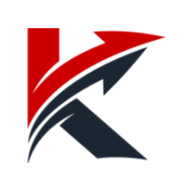
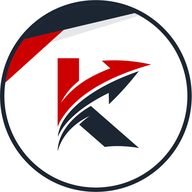
Novo ícone, botão de ajuda pelo WhatsApp e rodapé com versão
Claude-Session: https://claude.ai/code/session_01XZedQVNNjmR4nTZd9tLYRd

diff --git a/index.html b/index.html
@@ -6,8 +6,8 @@
 <meta name="theme-color" content="#000000">
 <title>Kiton Hub</title>
 <link rel="manifest" href="manifest.webmanifest">
-<link rel="icon" href="icon-192.png">
-<link rel="apple-touch-icon" href="icon-192.png">
+<link rel="icon" href="logo-redondo.png?v=2">
+<link rel="apple-touch-icon" href="icon-180.png?v=2">
 <link rel="preconnect" href="https://fonts.googleapis.com">
 <link rel="preconnect" href="https://fonts.gstatic.com" crossorigin>
 <link href="https://fonts.googleapis.com/css2?family=Barlow:wght@400;500;600&family=Barlow+Semi+Condensed:wght@600;700&display=swap" rel="stylesheet">
@@ -24,7 +24,10 @@ html,body{margin:0;background:var(--aco);color:var(--texto);font:17px/1.4 var(--
 button{font:inherit;color:inherit;cursor:pointer}
 :focus-visible{outline:3px solid var(--amarelo);outline-offset:2px}
 .topo{position:sticky;top:0;z-index:10;background:var(--preto);color:#fff;display:flex;align-items:center;gap:10px;padding:10px 16px;padding-top:max(10px,env(safe-area-inset-top))}
-.topo img{width:34px;height:34px;border-radius:8px;background:#fff}
+.topo img{width:38px;height:38px;border-radius:50%;background:#fff}
+.topo .ajuda{background:#1E2227;border-radius:10px;width:40px;height:40px;display:grid;place-items:center;color:#25D366}
+.rodape{margin:28px 0 0;text-align:center;font-size:12.5px;line-height:1.5;color:var(--cinza)}
+.rodape b{font-weight:600;color:var(--texto)}
 .topo .marca{font:700 19px/1 var(--tit);letter-spacing:.2px;flex:1}
 .topo .marca span{display:block;font:500 13px/1.3 var(--corpo);color:#B9C0C8;letter-spacing:0}
 .topo .icone-btn{background:#1E2227;border:0;border-radius:10px;width:40px;height:40px;display:grid;place-items:center}
@@ -206,15 +209,16 @@ td.n{text-align:right}
 .linha-meus .q{min-width:34px;height:34px;border-radius:9px;background:var(--preto);color:#fff;display:grid;place-items:center;font:700 16px/1 var(--tit)}
 select.campo-txt{appearance:auto}
 .login-marca{text-align:center;margin:26px 0 22px}
-.login-marca img{width:84px;height:84px;border-radius:20px;background:#fff}
+.login-marca img{width:96px;height:96px;border-radius:50%;background:#fff}
 .login-marca h1{margin:12px 0 4px}
 .pin{letter-spacing:10px;font-size:24px;text-align:center}
 </style>
 </head>
 <body>
 <header class="topo">
-  <img src="icon-192.png" alt="">
+  <img src="logo-redondo.png?v=2" alt="">
   <div class="marca" id="marca">Kiton Hub</div>
+  <a class="ajuda" id="btnAjuda" href="#" target="_blank" rel="noopener" aria-label="Ajuda pelo WhatsApp"><svg class="i" viewBox="0 0 24 24"><path d="M4 20l1.3-4A8 8 0 1 1 8 19z"/><path d="M9.5 9.5c0 3 2 5 5 5l1-1.4-1.6-.8-.8.8c-1-.4-1.8-1.2-2.2-2.2l.8-.8-.8-1.6z" fill="currentColor" stroke="none"/></svg></a>
   <button class="icone-btn oculto" id="btnSair" type="button" aria-label="Sair do app"><svg class="i" viewBox="0 0 24 24"><path d="M15 4h3a2 2 0 0 1 2 2v12a2 2 0 0 1-2 2h-3M10 17l-5-5 5-5M5 12h11"/></svg></button>
 </header>
 <div class="faixa"></div>
@@ -225,6 +229,15 @@ select.campo-txt{appearance:auto}
 <script>
 'use strict';
 const $app = document.getElementById('app'), $barra = document.getElementById('barra');
+const VERSAO = '1.0 beta', ANO = 2026, WHATS_AJUDA = '5544997311914';
+const rodape = () => `<p class="rodape"><b>Kiton Hub</b> · versão ${VERSAO} · ${ANO}<br>Desenvolvido por Eng. Joaquim Neto · Kiton Engenharia Integrada</p>`;
+let telaAtual = 'Entrar';
+function linkAjuda() {
+  const quem = est.usuario ? est.usuario.nome : 'não entrei ainda';
+  const t = `Olá, Joaquim! Preciso de ajuda no Kiton Hub.\nUsuário: ${quem}\nTela: ${telaAtual}\nVersão: ${VERSAO}\n\nDúvida: `;
+  return `https://wa.me/${WHATS_AJUDA}?text=${encodeURIComponent(t)}`;
+}
+document.getElementById('btnAjuda').addEventListener('click', e => { e.currentTarget.href = linkAjuda(); });
 const est = { token: null, usuario: null, dados: null };
 
 // ---------- ícones ----------
@@ -268,7 +281,7 @@ const msg = (tipo, t) => `<div class="msg ${tipo}" role="status">${esc(t)}</div>
 const hora = s => String(s || '').slice(-5);
 const primeiroNome = n => String(n || '').replace(/^Eng\.\s*/, '').split(' ')[0];
 const barra = html => { $barra.innerHTML = html ? `<div class="barra">${html}</div>` : ''; };
-const topo = (sub) => { document.getElementById('marca').innerHTML = `Kiton Hub${sub ? `<span>${esc(sub)}</span>` : ''}`; };
+const topo = (sub) => { telaAtual = sub || 'Entrar'; document.getElementById('marca').innerHTML = `Kiton Hub${sub ? `<span>${esc(sub)}</span>` : ''}`; };
 
 async function api(acao, dados = {}) {
   if (!window.API_URL || API_URL.indexOf('http') !== 0) throw new Error('O endereço do Apps Script ainda não foi configurado (config.js).');
@@ -344,13 +357,14 @@ function lerHorario(id) {
 // ---------- entrar ----------
 async function telaLogin() {
   document.getElementById('btnSair').classList.add('oculto'); topo(); barra('');
-  $app.innerHTML = `<div class="login-marca"><img src="icon-192.png" alt=""><h1>Entrar no Kiton Hub</h1><p class="suave">Registro de saídas, ferramentas e retorno</p></div>
+  $app.innerHTML = `<div class="login-marca"><img src="logo-redondo.png?v=2" alt=""><h1>Entrar no Kiton Hub</h1><p class="suave">Registro de saídas, ferramentas e retorno</p></div>
     <div id="erro"></div>
     <label class="rotulo" for="nome">Quem é você?</label>
     <div id="nomes"><p class="suave">Carregando nomes…</p></div>
     <label class="rotulo" for="pin">PIN</label>
     <input class="campo-txt pin" id="pin" type="password" inputmode="numeric" maxlength="6" autocomplete="current-password" placeholder="••••••">
-    <p class="suave" style="margin-top:8px">No primeiro acesso o PIN é 123456. Depois o app pede para você criar o seu.</p>`;
+    <p class="suave" style="margin-top:8px">No primeiro acesso o PIN é 123456. Depois o app pede para você criar o seu.</p>
+    <p class="suave" style="margin-top:14px">Esqueceu o PIN ou travou? Toque no ícone verde do WhatsApp no alto da tela.</p>${rodape()}`;
   barra(`<div class="dentro"><button class="acao" id="entrar" type="button">Entrar</button></div>`);
   let escolhido = lerLocal('kc_ultimo_nome') || '';
   try {
@@ -416,7 +430,10 @@ function telaInicio() {
       ${mod('mCalib', 'calib', 'Calibração', 'Validade e registro de calibração dos instrumentos')}
       ${mod('mAcessos', 'pessoas', 'Acessos', 'Redefinir o PIN de alguém')}
       ${mod('mCad', 'tabela', 'Cadastros', 'Itens, pessoas e clientes na planilha')}
-    </div>` : ''}`;
+    </div>` : ''}
+    <a class="linha-meus" id="mAjuda" href="#" target="_blank" rel="noopener" style="text-decoration:none;color:inherit"><span class="q" style="background:#25D366">?</span><span style="flex:1"><b>Ajuda e dúvidas</b><span class="suave" style="display:block">Fale com o Joaquim pelo WhatsApp</span></span>${ic('seta')}</a>
+    ${rodape()}`;
+  document.getElementById('mAjuda').addEventListener('click', e => { e.currentTarget.href = linkAjuda(); });
   document.getElementById('mSaidas').onclick = telaSaidas;
   document.getElementById('mCheckin').onclick = telaCheckin;
   document.getElementById('mOS').onclick = telaOS;
